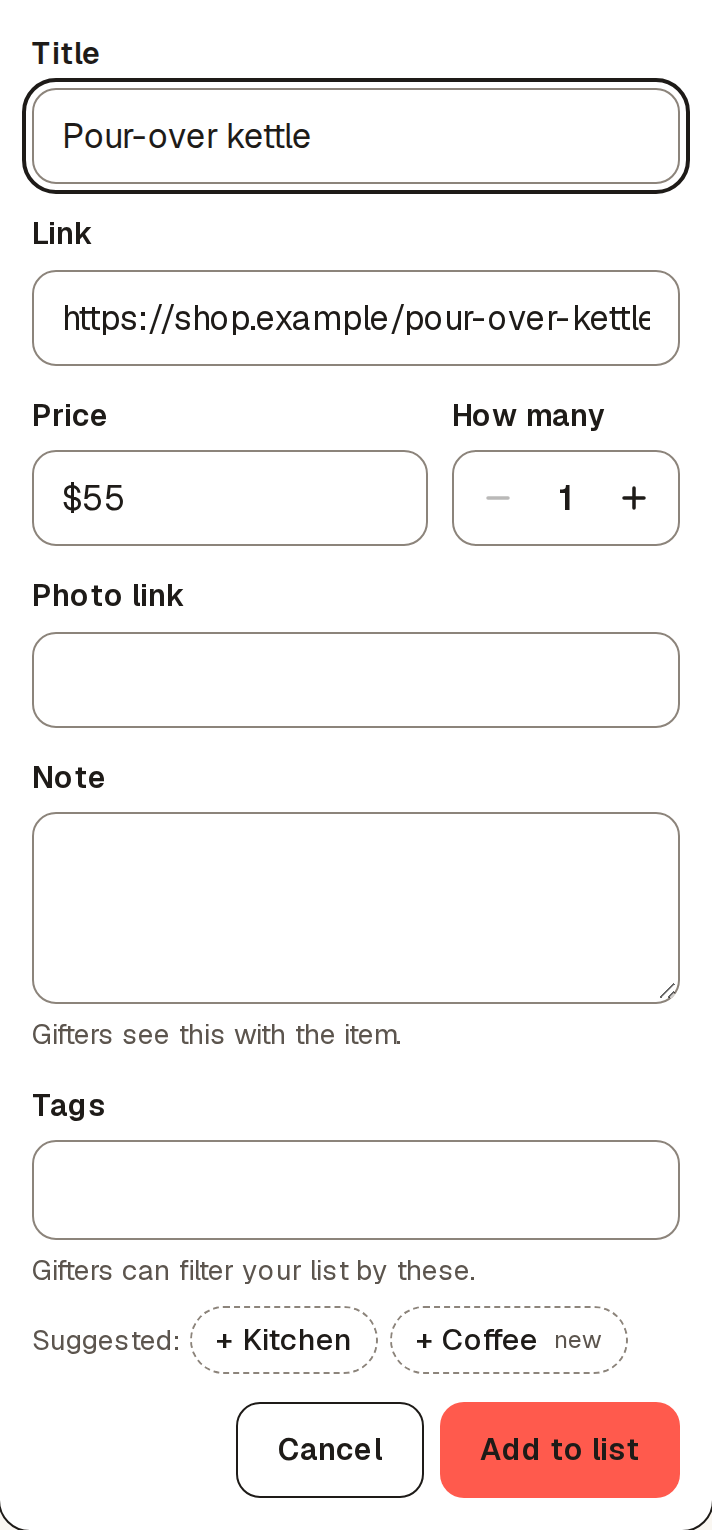
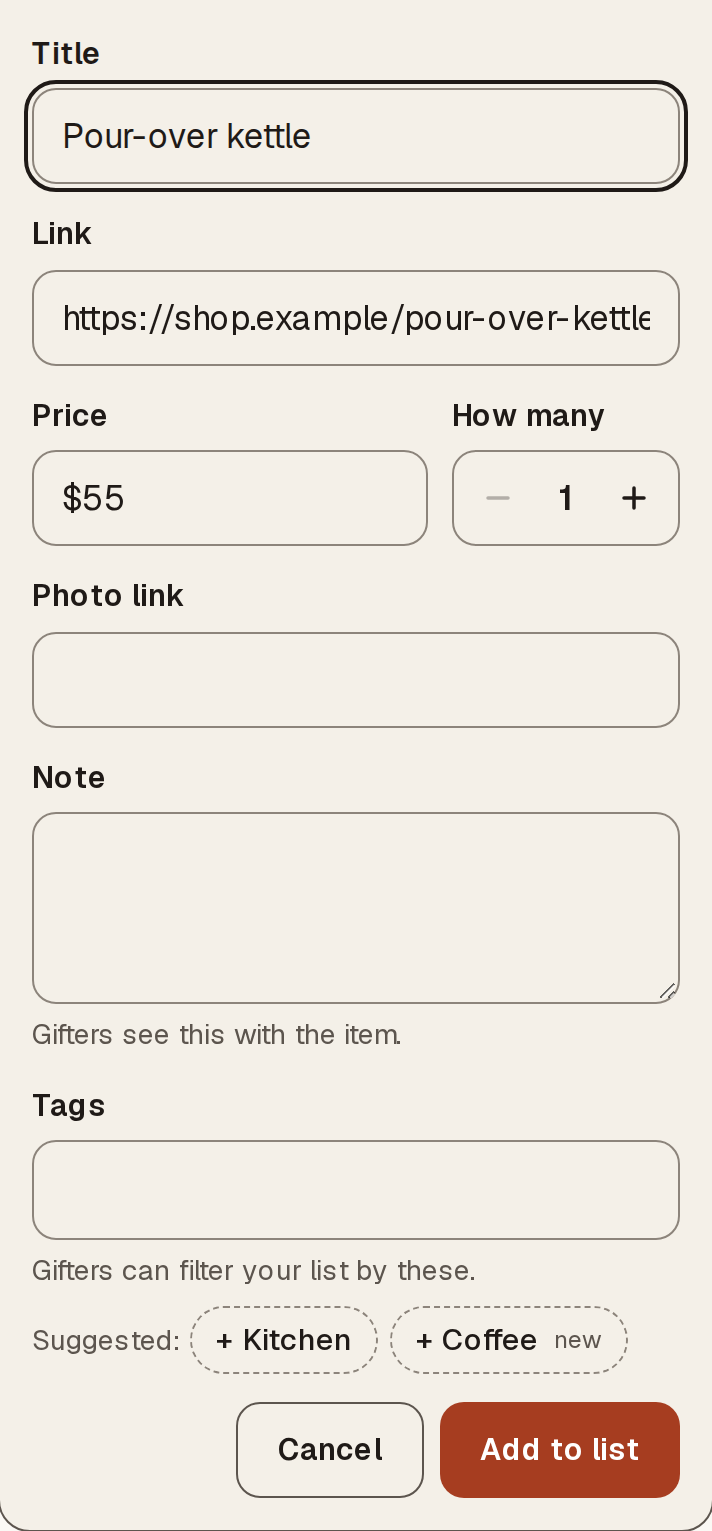
docs: refresh the README screenshots and add Your gifts (#315)
* docs: refresh the README screenshots for the D89 palette

Regenerated with scripts/e2e.sh --config playwright.screenshots.config.ts.
The list, notes and prices are unchanged; the images now show the deep
terracotta buttons and espresso focus rings from D89.

* docs: add a Your gifts screenshot to the README

The README describes Your gifts (Plan 10b) but showed nothing of it. A new
gifts.png test in the screenshots spec signs in a gifter with a confirmed
email, has them claim from two made-up lists, ticks one item Bought and
photographs the page. seedList now returns the apron and socks it creates.

---------

diff --git a/e2e/screenshots/readme.spec.ts b/e2e/screenshots/readme.spec.ts
@@ -4,7 +4,7 @@ import { addItemViaApi, verifiedOwner } from '../support/owner.js';
 import { claimViaApi, shareTokenOf } from '../support/share.js';
 
 /**
- * The README's four screenshots (docs/images). Not part of CI: run with
+ * The README's five screenshots (docs/images). Not part of CI: run with
  * `scripts/e2e.sh --config playwright.screenshots.config.ts`. The list is made up. Nothing here
  * calls Cloudflare, a shop or Etsy: the suggestions and the link preview are stubbed.
  *
@@ -31,7 +31,7 @@ async function seedList(page: Page, base: string) {
     note: 'The matte black one, not the steel.',
     tags: [{ name: 'Kitchen' }],
   });
-  await add({
+  const apron = await add({
     title: 'Linen apron',
     url: `${SHOP}/apron`,
     priceText: '$28',
@@ -44,7 +44,7 @@ async function seedList(page: Page, base: string) {
     note: 'Any size is fine.',
     tags: [{ name: 'Garden' }],
   });
-  await add({
+  const socks = await add({
     title: 'Wool socks',
     url: `${SHOP}/socks`,
     priceText: '$18',
@@ -56,7 +56,7 @@ async function seedList(page: Page, base: string) {
     note: 'I would love to try the wheel.',
     tags: [{ name: 'Experiences' }],
   });
-  return { kettle, token: await shareTokenOf(page.request) };
+  return { kettle, apron, socks, token: await shareTokenOf(page.request) };
 }
 
 /** A gifter's browser: no session, and the same size and pixel density as the project's phone. */
@@ -116,6 +116,35 @@ test.describe('phone', () => {
     await gifter.waitForTimeout(600);
     await gifter.screenshot({ path: imagePath('claim.png') });
     await gifter.context().close();
+  });
+
+  test('gifts.png: Your gifts, for a signed-in gifter', async ({ page, baseURL }, info) => {
+    test.skip(info.project.name !== 'phone', 'a phone picture');
+    const base = baseURL ?? '';
+    const { apron, socks, token } = await seedList(page, base);
+    // A second, made-up list, so the page shows its groups.
+    const sam = await gifterPage(page, info, base);
+    await verifiedOwner(sam, base, 'readme-sam', 'Sam');
+    const chalkBag = await addItemViaApi(sam.request, base, { title: 'Chalk bag' });
+    const samToken = await shareTokenOf(sam.request);
+    // Ben has a confirmed email and is signed in when he claims, so his claims join his page.
+    const ben = await gifterPage(page, info, base);
+    await verifiedOwner(ben, base, 'readme-ben', 'Ben');
+    await claimViaApi(ben.request, base, samToken, chalkBag.id, { claimerName: 'Ben' });
+    await claimViaApi(ben.request, base, token, apron.id, { claimerName: 'Ben' });
+    await claimViaApi(ben.request, base, token, socks.id, { claimerName: 'Ben', quantity: 2 });
+    await ben.goto('/gifts');
+    await expect(ben.getByRole('heading', { level: 1, name: 'Your gifts' })).toBeVisible();
+    await ben
+      .getByRole('listitem')
+      .filter({ has: ben.getByRole('heading', { name: 'Linen apron' }) })
+      .getByRole('checkbox', { name: 'Bought' })
+      .check();
+    await expect(ben.getByText('3 things for 2 people · 1 bought', { exact: true })).toBeVisible();
+    await ben.waitForTimeout(300);
+    await ben.screenshot({ path: imagePath('gifts.png') });
+    await ben.context().close();
+    await sam.context().close();
   });
 
   test('suggestions.png: the add form with suggested tags', async ({ page, baseURL }, info) => {

diff --git a/README.md b/README.md
@@ -12,6 +12,7 @@ A wishlist app for family and friends, running at **https://hanker.dev**. You ke
   <img src="docs/images/share.png" alt="A shared list on a phone, with a row of tag filters. One item reads 'Taken care of: Aunt Sue is getting this'; the others have an 'I'll get this' button" height="440">
   <img src="docs/images/claim.png" alt="The claim sheet on a phone: a name field, a quantity stepper, and a note that the owner can't see who is getting what" height="440">
   <img src="docs/images/suggestions.png" alt="The add form on a phone: a kettle's title and price, and under Tags, a 'Suggested:' row with Kitchen and a new Coffee tag" height="440">
+  <img src="docs/images/gifts.png" alt="Your gifts on a phone: '3 things for 2 people · 1 bought', grouped under Sam and Ada, each item with a Bought checkbox and a Change button, and a Shop button on the linen apron, which is ticked" height="440">
 </p>
 
 Sample data. The people and the list are made up.

diff --git a/docs/development.md b/docs/development.md
@@ -50,7 +50,7 @@ Testcontainers looks for Docker at `/var/run/docker.sock`. With Docker Desktop o
 
 ### Refreshing the README screenshots
 
-`docs/images/*.png` come from `e2e/screenshots/readme.spec.ts`, which seeds a made-up list through the API, stubs the link preview and the tag suggestions, and writes the four images. It is not part of CI. Run it the way `scripts/e2e.sh` runs the tests, then look at each image before committing:
+`docs/images/*.png` come from `e2e/screenshots/readme.spec.ts`, which seeds a made-up list through the API, stubs the link preview and the tag suggestions, and writes the five images. It is not part of CI. Run it the way `scripts/e2e.sh` runs the tests, then look at each image before committing:
 
 ```bash
 scripts/e2e.sh --config playwright.screenshots.config.ts
